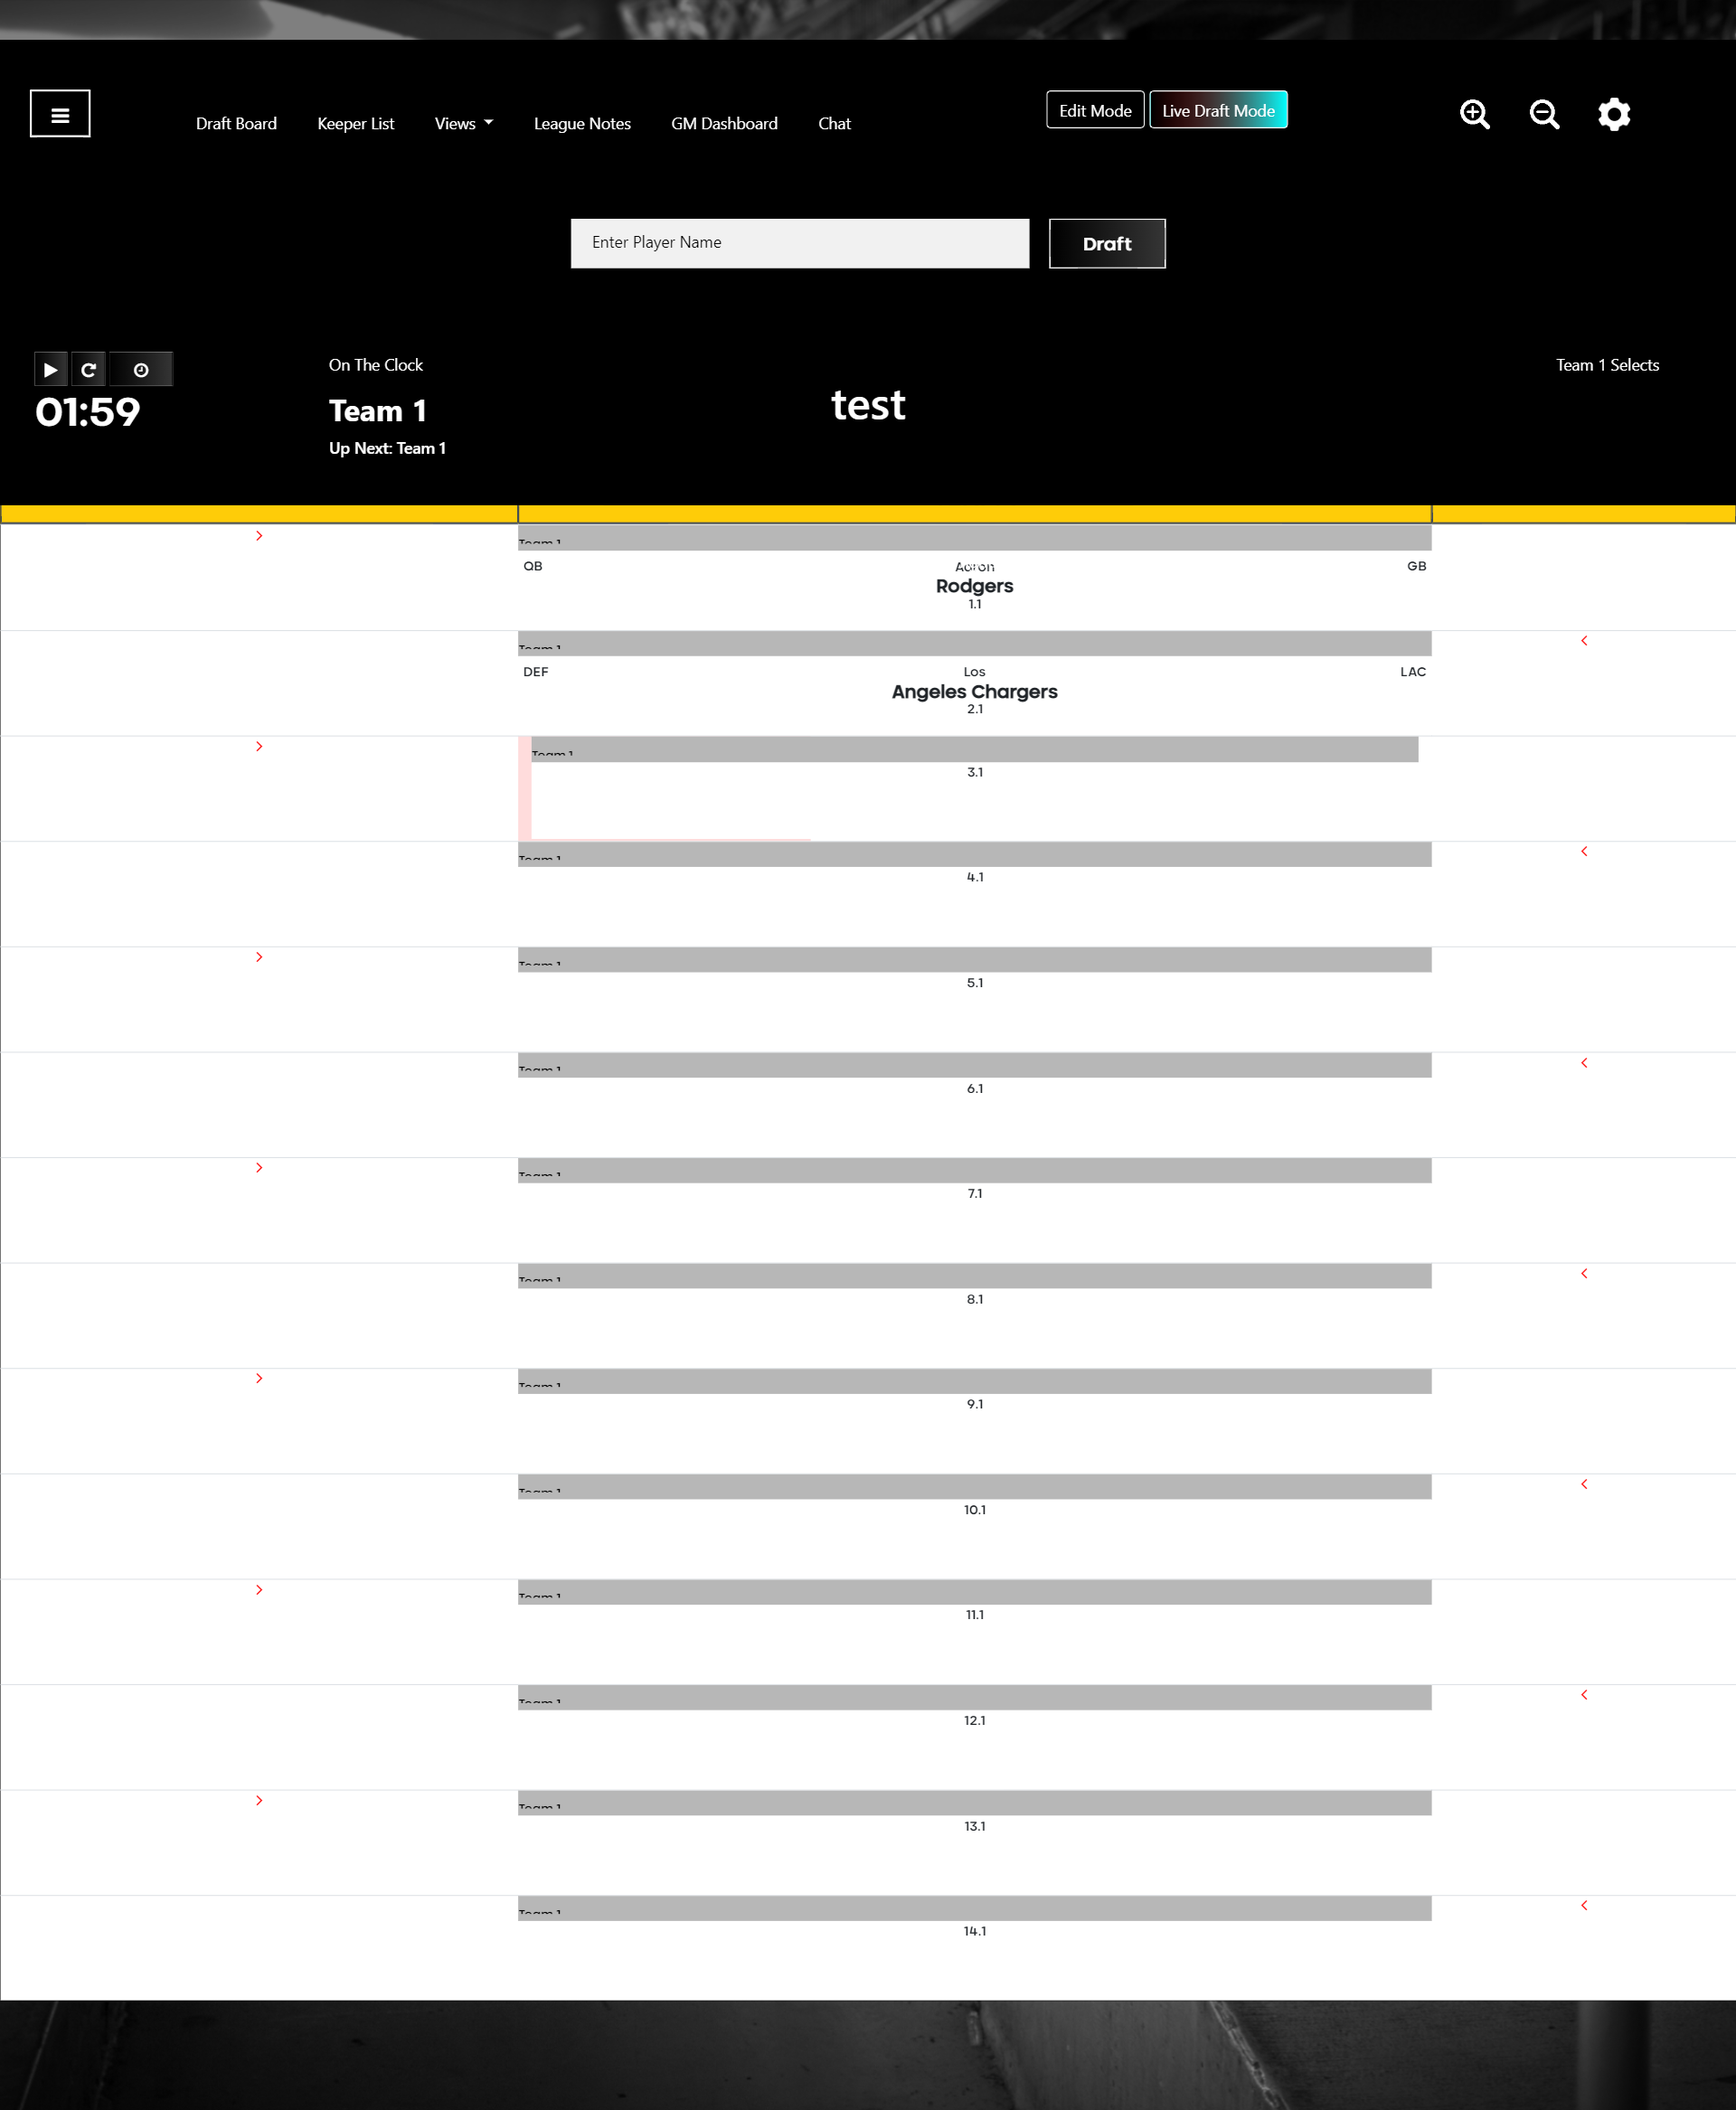
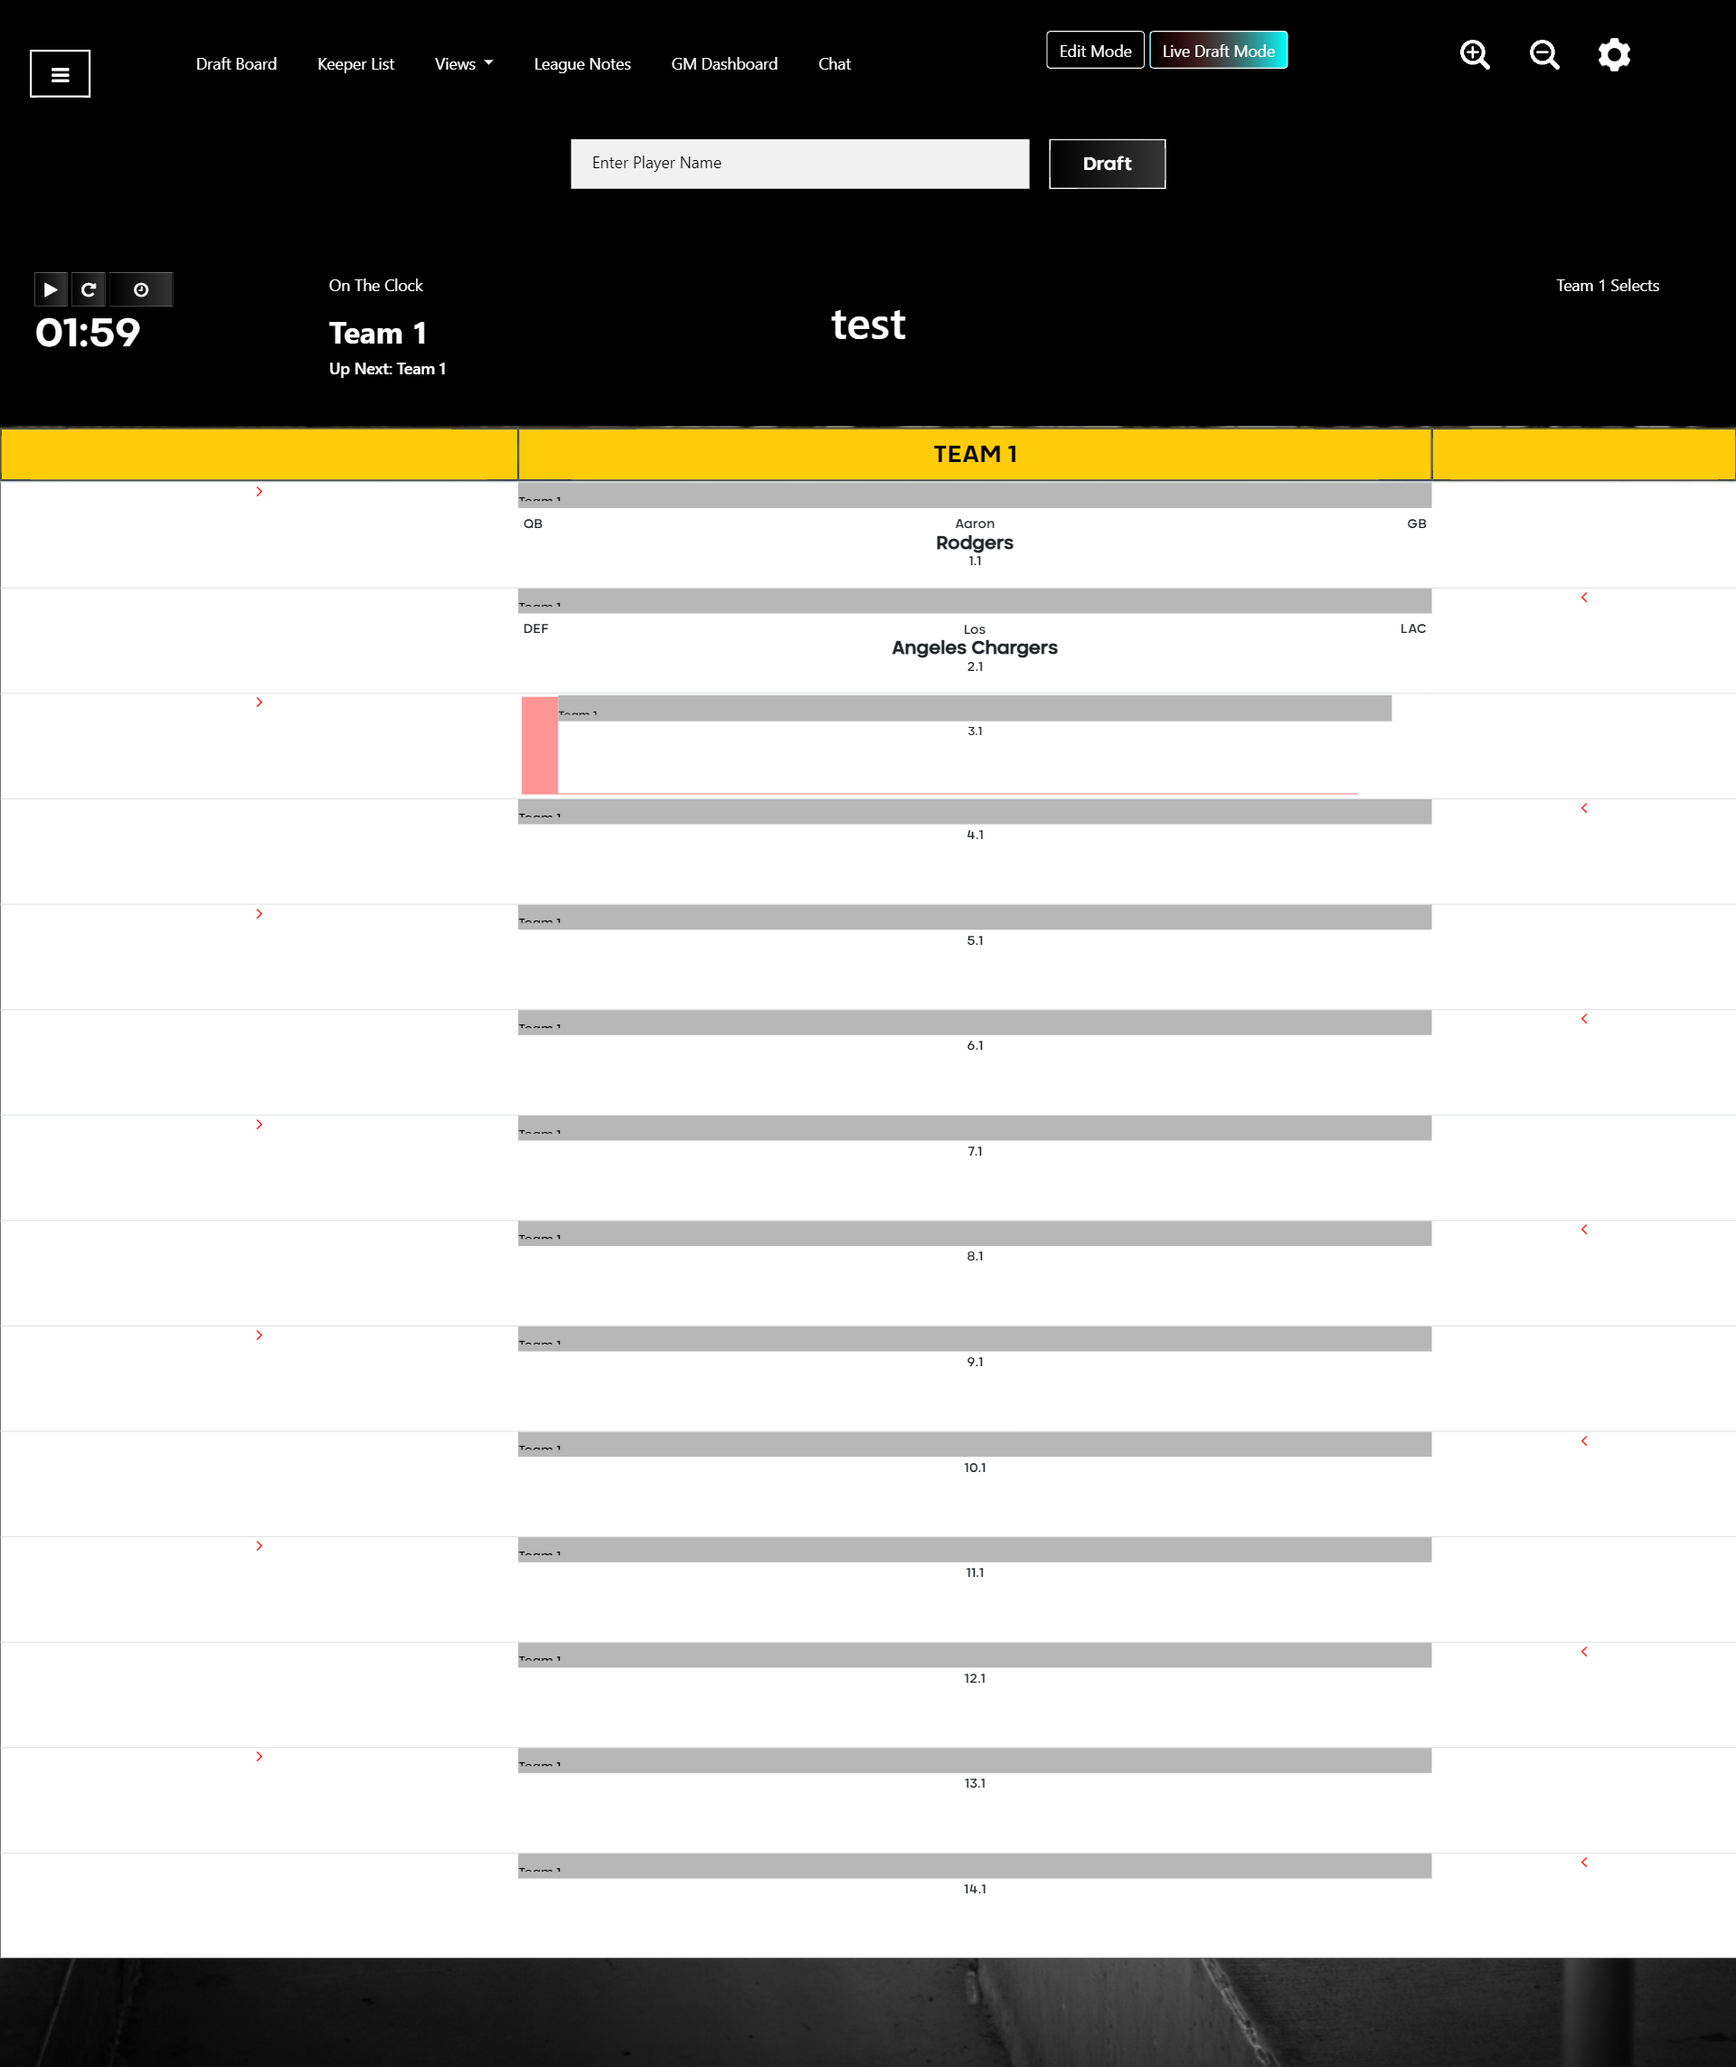
updated

diff --git a/public/js/league/draft.js b/public/js/league/draft.js
@@ -3,11 +3,11 @@ $(document).ready(function () {
     setTimeout(function () {
         //calls click event after a certain time
         if ($(".dropDownDiv").css("display") == "block") {
-            $(".city_board_table").css("margin-top", "453px");
+            $(".city_board_table").css("margin-top", "410px");
         } else {
             console.log("hello");
             $(".city_board_table").css("margin-top", "0px");
-            $(".city_board_table table").css("margin-top", "215px");
+            $(".city_board_table table").css("margin-top", "170px");
         }
     }, 1000);
 });

diff --git a/public/css/app.css b/public/css/app.css
@@ -1606,7 +1606,7 @@ a:hover {
 
 /* line 1350, ../sass/app.scss */
 .city_charts {
-    padding: 35px 30px !important;
+    padding: 15px 30px !important;
 }
 /* line 1353, ../sass/app.scss */
 .city_charts .city_name h3 {

diff --git a/resources/views/league/roster.blade.php b/resources/views/league/roster.blade.php
@@ -109,21 +109,12 @@ return (($a->round_order) < ($b->round_order));
               <div class="row">
                 <!-- <div class="col-md-4">
                 </div> -->
-                <div class="col-md-12">
-                  <div class="custom-control custom-switch">
-                    @php 
-                    if($league->status=="keeper")
-                    {
-                         $mode='started';
-                    }
-                    else{
-                         $mode='keeper';
-                      }
-                    @endphp
-                 
-                    <button class="btn btn-success mybutton" data-mode="{{$mode}}">@if($league->status=="keeper"){{'Live Draft Mode'}}@else{{'End Draft Mode'}}@endif</button>
+                
+                <div class="custom-control custom-switch d-flex" >                 
+                    <button style="margin-right: 5px;" class="btn btn-success mybutton @if($league->status=='keeper') green @else black @endif" data-mode="keeper">Edit Mode</button>
+                    <button class="btn btn-success mybutton @if($league->status=='started') green @else black @endif "   data-mode="started">@if($league->status=="keeper"){{'Live Draft Mode'}}@else{{'Live Draft Mode'}}@endif</button>
                   </div>
-                </div>
+                
               </div>
             </div>
             <div class="list_edit d-none">
